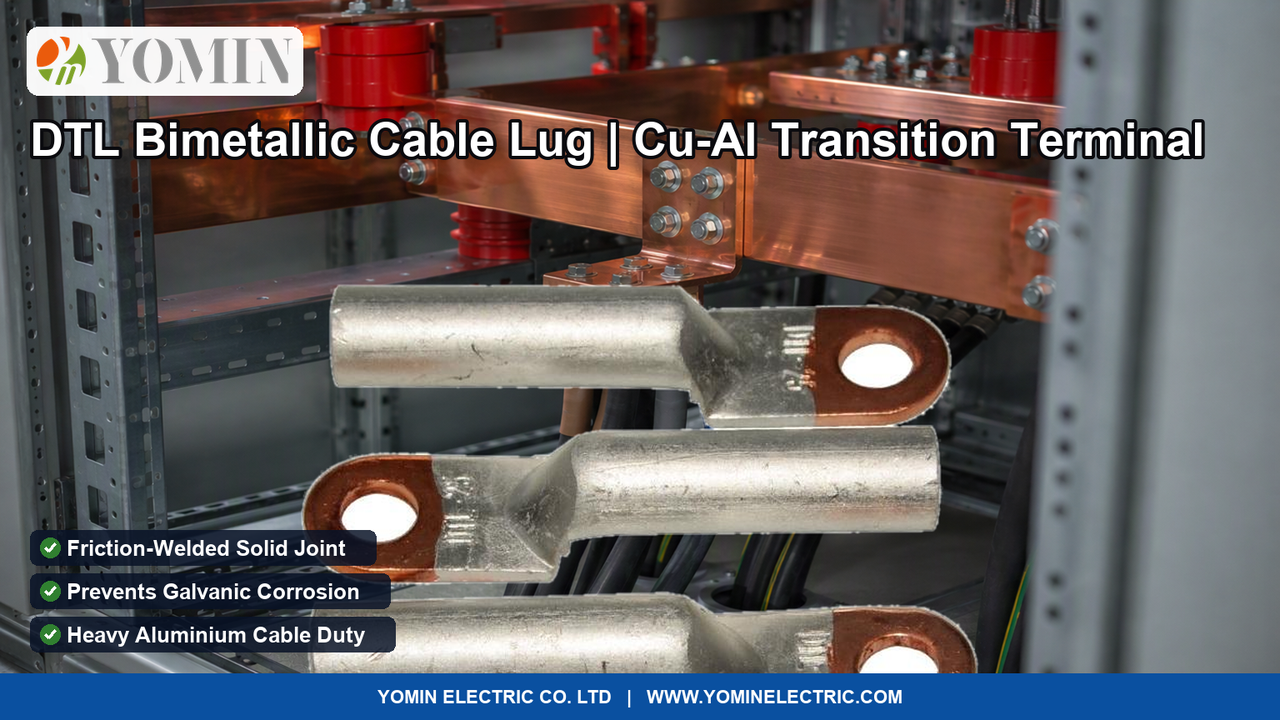
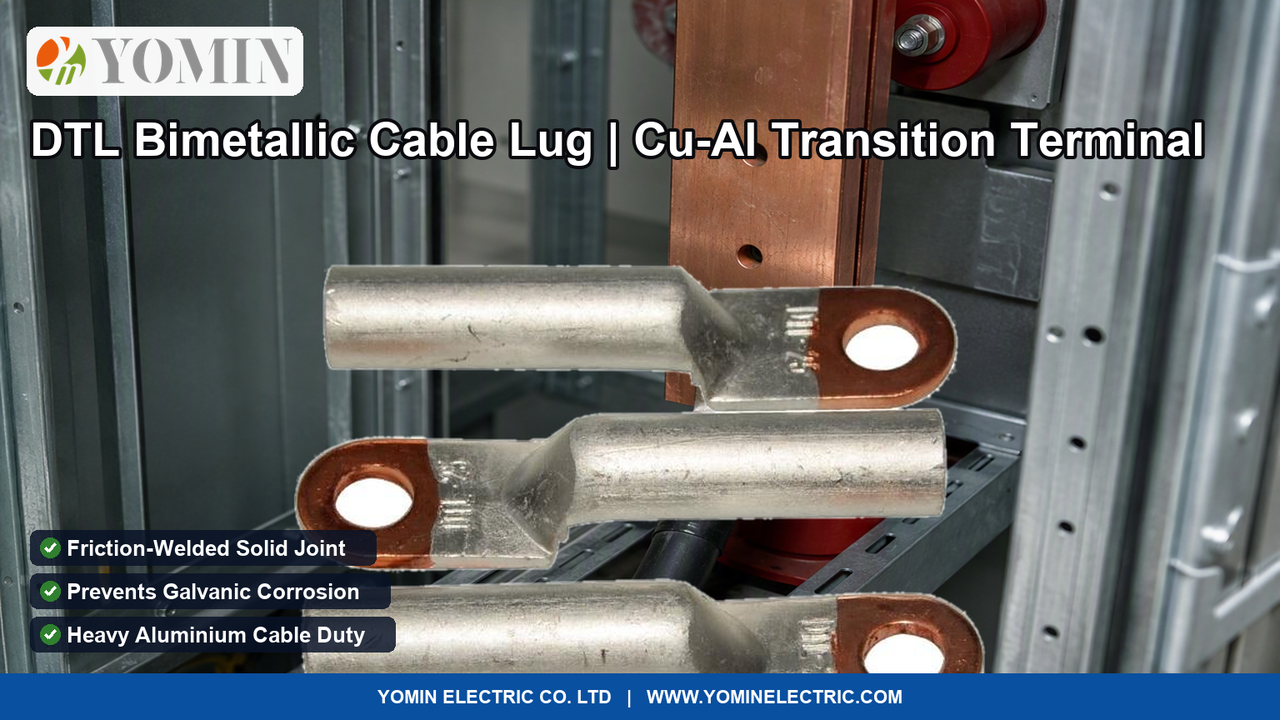
Update blog hero and card images with authentic on-site application scenes and unclipped Pinterest chrome

diff --git a/_catalog_work/build_images_0919.py b/_catalog_work/build_images_0919.py
@@ -25,30 +25,30 @@ JOBS = [
     dict(
         slug='fuse-cutout-guide',
         src='assets/images/products/7edc35982a7d50e1.jpg',
-        bg='media-output/img-mu83z3v6-603c5acc.png',
+        bg='media-output/img-mu858dnz-e094369e.png',
         thr=240,
-        target_h=480,
-        pos_y=270,
+        target_h=490,
+        pos_y=240,
         title='J-Type Fuse Cutout | Heavy-Duty Feeder Disconnector',
         chips=['Up to 400A / 415V Rating', '82mm & 92mm Slotted Centers', 'Distribution Pole & LV Duty']
     ),
     dict(
         slug='electric-meter-seal-guide',
         src='assets/images/products/20dd6d59d60cf684.png',
-        bg='media-output/img-mu8401a5-b3a713be.png',
+        bg='media-output/img-mu859dgx-8119554d.png',
         thr=245,
-        target_h=490,
-        pos_y=260,
+        target_h=460,
+        pos_y=270,
         title='Electric Meter Security Seal | Anti-Tamper Revenue Lock',
         chips=['Polycarbonate Twist Body', 'Stainless Steel Sealing Wire', 'Custom Barcode & Serial ID']
     ),
     dict(
         slug='bimetallic-lug-guide',
         src='assets/images/products/17a14fa3e6aae8ea.jpg',
-        bg='media-output/img-mu8410nf-cd951465.png',
+        bg='media-output/img-mu85a7z2-3eb731c9.png',
         thr=240,
-        target_h=470,
-        pos_y=280,
+        target_h=480,
+        pos_y=260,
         title='DTL Bimetallic Cable Lug | Cu-Al Transition Terminal',
         chips=['Friction-Welded Solid Joint', 'Prevents Galvanic Corrosion', 'Heavy Aluminium Cable Duty']
     ),
